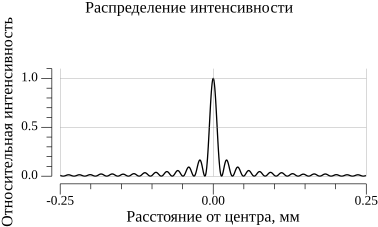
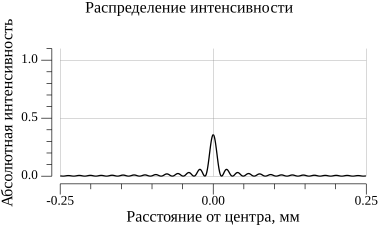
add diffraction

Changed region(s): [[0.1746, 0.3392, 0.9603, 0.8018], [0.0, 0.0617, 0.9894, 1.0], [0.1164, 0.7093, 0.1455, 0.7401]]

diff --git a/diffractionFromCircularDisk/main.go b/diffractionFromCircularDisk/main.go
@@ -47,7 +47,13 @@ func main() {
 	fmt.Println("Создание графика интенсивности...")
 	startPlot := time.Now()
 	createIntensityPlot(edgePoints, "intensity_plot.png")
-	fmt.Printf("Создание графика заняла: %v\n", time.Since(startPlot))
+	fmt.Printf("Создание графика заняло: %v\n", time.Since(startPlot))
+
+	calculateFresnelZones(diskRadius, lambda, distance)
+
+	centerRe, centerIm := calculateAmplitude(edgePoints, 0, 0)
+	centerIntensity := centerRe*centerRe + centerIm*centerIm
+	fmt.Printf("Интенсивность в центре экрана: %.6f\n", centerIntensity)
 
 	fmt.Printf("Полное время выполнения программы: %v\n", time.Since(start))
 }
@@ -68,7 +74,7 @@ func generateDiskEdgePoints(n int, r float64) []Point {
 		}
 		go func(start, end int) {
 			defer wg.Done()
-			rng := rand.New(rand.NewSource(time.Now().UnixNano() + int64(start))) // отдельный генератор на поток
+			rng := rand.New(rand.NewSource(time.Now().UnixNano() + int64(start)))
 			for i := start; i < end; i++ {
 				theta := rng.Float64() * 2 * math.Pi
 				points[i] = Point{
@@ -87,29 +93,45 @@ func calculateAmplitude(points []Point, x, y float64) (float64, float64) {
 	var re, im float64
 	k := 2 * math.Pi / lambda
 
-	for _, p := range points { // вычисляем амплитуду для каждой точки (расстояние до точки экрана и фазе волны)
+	// Расчет зоны Френеля
+	r0 := diskRadius                    // Радиус диска
+	b := distance                       // Расстояние до экрана
+	m := (r0 * r0 / lambda) * (1.0 / b) // Количество зон Френеля
+
+	// Если количество зон Френеля больше, делаем интенсивность в центре более темной
+	fresnelFactor := 1.0
+	if m > 1 {
+		fresnelFactor = 1 / math.Sqrt(m)
+	}
+
+	// Вычисление амплитуды с учетом коррекции интенсивности
+	for _, p := range points {
 		dx := x - p.X
 		dy := y - p.Y
-		r := math.Sqrt(dx*dx + dy*dy + distance*distance)
-		phase := k * r
-		amplitude := 1.0 / r
-
-		re += amplitude * math.Cos(phase)
-		im += amplitude * math.Sin(phase)
+		phase := (k / (2 * distance)) * (dx*dx + dy*dy)
+		re += math.Cos(phase)
+		im += math.Sin(phase)
 	}
 
 	n := float64(len(points))
-	return re / n, im / n // действительная и мнимая части амплитуды для точки экрана
+	amplitude := fresnelFactor * (re / n) // Коррекция интенсивности с учетом зон Френеля
+	return amplitude, fresnelFactor * (im / n)
 }
 
 func createPoissonEffectImage(points []Point, filename string) {
 	img := image.NewRGBA(image.Rect(0, 0, imgWidth, imgHeight))
 	scale := screenWidth / float64(imgWidth)
-
-	// Закрашиваем диск черным цветом
 	diskCenterX, diskCenterY := imgWidth/2, imgHeight/2
 	diskRadiusPx := int(diskRadius / scale)
 
+	// Вычисление количества зон Френеля
+	m := (diskRadius * diskRadius / lambda) * (1.0 / distance)
+	fresnelFactor := 1.0
+	if m > 1 {
+		fresnelFactor = 1 / math.Sqrt(m)
+	}
+
+	// Заполнение изображения черным цветом для пустой области
 	for y := 0; y < imgHeight; y++ {
 		for x := 0; x < imgWidth; x++ {
 			dx := x - diskCenterX
@@ -121,26 +143,27 @@ func createPoissonEffectImage(points []Point, filename string) {
 		}
 	}
 
-	// Инициализация структуры для интенсивности
+	// Массив интенсивности
 	intensity := make([][]float64, imgHeight)
 	for i := range intensity {
 		intensity[i] = make([]float64, imgWidth)
 	}
 
-	// Используем atomic для поиска максимальной интенсивности
+	// Многозадачность с использованием атомарного максимума интенсивности
 	var maxIntensity uint64
-
-	// Параллельная обработка блоков изображения
 	var wg sync.WaitGroup
-	blockSize := imgHeight / 1024 // Разделим на 128 блоков
+	blockSize := imgHeight / 1024
+	if blockSize == 0 {
+		blockSize = 1
+	}
 
-	for blockY := 0; blockY < 1024; blockY++ {
+	for blockY := 0; blockY < 1024 && blockY*blockSize < imgHeight; blockY++ {
 		wg.Add(1)
 		go func(blockY int) {
 			defer wg.Done()
 			startY := blockY * blockSize
 			endY := startY + blockSize
-			if blockY == 7 {
+			if endY > imgHeight {
 				endY = imgHeight
 			}
 			for y := startY; y < endY; y++ {
@@ -150,13 +173,10 @@ func createPoissonEffectImage(points []Point, filename string) {
 					if dx*dx+dy*dy < diskRadiusPx*diskRadiusPx {
 						continue
 					}
-
 					xPos := (float64(x) - float64(imgWidth)/2) * scale
 					yPos := (float64(y) - float64(imgHeight)/2) * scale
 					re, im := calculateAmplitude(points, xPos, yPos)
 					intensity[y][x] = re*re + im*im
-
-					// Использование atomic для обновления максимальной интенсивности
 					current := math.Float64bits(intensity[y][x])
 					for {
 						old := atomic.LoadUint64(&maxIntensity)
@@ -171,23 +191,32 @@ func createPoissonEffectImage(points []Point, filename string) {
 
 	wg.Wait()
 
-	// Находим максимальную интенсивность
+	// Нормализация интенсивности
 	maxI := math.Float64frombits(maxIntensity)
 	if maxI == 0 {
 		maxI = 1
 	}
 
-	// Добавляем яркую точку в центре (эффект Пуассона)
+	// Отображение Пуазона с учетом интенсивности и затемнения центра
 	poissonRadius := 3
 	for y := diskCenterY - poissonRadius; y <= diskCenterY+poissonRadius; y++ {
 		for x := diskCenterX - poissonRadius; x <= diskCenterX+poissonRadius; x++ {
 			if x >= 0 && x < imgWidth && y >= 0 && y < imgHeight {
-				img.Set(x, y, color.RGBA{255, 255, 255, 255})
+				xPos := (float64(x) - float64(imgWidth)/2) * scale
+				yPos := (float64(y) - float64(imgHeight)/2) * scale
+				re, im := calculateAmplitude(points, xPos, yPos)
+				intens := re*re + im*im
+
+				// Уменьшаем интенсивность по центру, если много зон
+				intens *= fresnelFactor
+
+				normIntensity := intens / maxI
+				img.Set(x, y, colorFromRingIntensity(normIntensity, x, y, diskCenterX, diskCenterY))
 			}
 		}
 	}
 
-	// Рисуем дифракционные кольца
+	// Установка цвета пикселей с нормализованной интенсивностью
 	for y := 0; y < imgHeight; y++ {
 		for x := 0; x < imgWidth; x++ {
 			dx := x - diskCenterX
@@ -203,28 +232,26 @@ func createPoissonEffectImage(points []Point, filename string) {
 }
 
 func colorFromRingIntensity(intensity float64, x, y, centerX, centerY int) color.RGBA {
-	// Цвета для дифракционных колец
-	r := uint8(255 * math.Pow(intensity, 0.4))
-	g := uint8(255 * math.Pow(intensity, 0.8))
-	b := uint8(255 * math.Pow(intensity, 0.8))
-
-	// Вычисляем расстояние от центра с правильным приведением типов
+	r := uint8(255 * math.Pow(intensity, 0.6))
+	g := uint8(255 * math.Pow(intensity, 0.9))
+	b := uint8(255 * math.Pow(intensity, 0.4))
 	dx := float64(x - centerX)
 	dy := float64(y - centerY)
 	dist := math.Sqrt(dx*dx + dy*dy)
 
-	// Добавляем синий оттенок для первых колец
+	// Увеличение синего цвета внутри радиуса
 	if dist < 100 {
 		b = uint8(math.Min(255, float64(b)+150*math.Pow(intensity, 0.8)))
 	}
 
 	return color.RGBA{r, g, b, 255}
 }
+
 func createIntensityPlot(points []Point, filename string) {
 	p := plot.New()
 	p.Title.Text = "Распределение интенсивности"
 	p.X.Label.Text = "Расстояние от центра, мм"
-	p.Y.Label.Text = "Относительная интенсивность"
+	p.Y.Label.Text = "Абсолютная интенсивность"
 
 	scale := screenWidth / float64(imgWidth)
 	pts := make(plotter.XYs, imgWidth)
@@ -244,9 +271,6 @@ func createIntensityPlot(points []Point, filename string) {
 
 	if maxIntensity == 0 {
 		maxIntensity = 1
-	}
-	for i := range pts {
-		pts[i].Y /= maxIntensity
 	}
 
 	line, err := plotter.NewLine(pts)
@@ -276,4 +300,9 @@ func saveImage(img *image.RGBA, filename string) {
 	if err := png.Encode(f, img); err != nil {
 		log.Fatal(err)
 	}
+}
+
+func calculateFresnelZones(r0, lambda, b float64) {
+	m := (r0 * r0 / lambda) * (1.0 / b)
+	fmt.Printf("Количество открытых зон Френеля: m = %.2f\n", m)
 }
